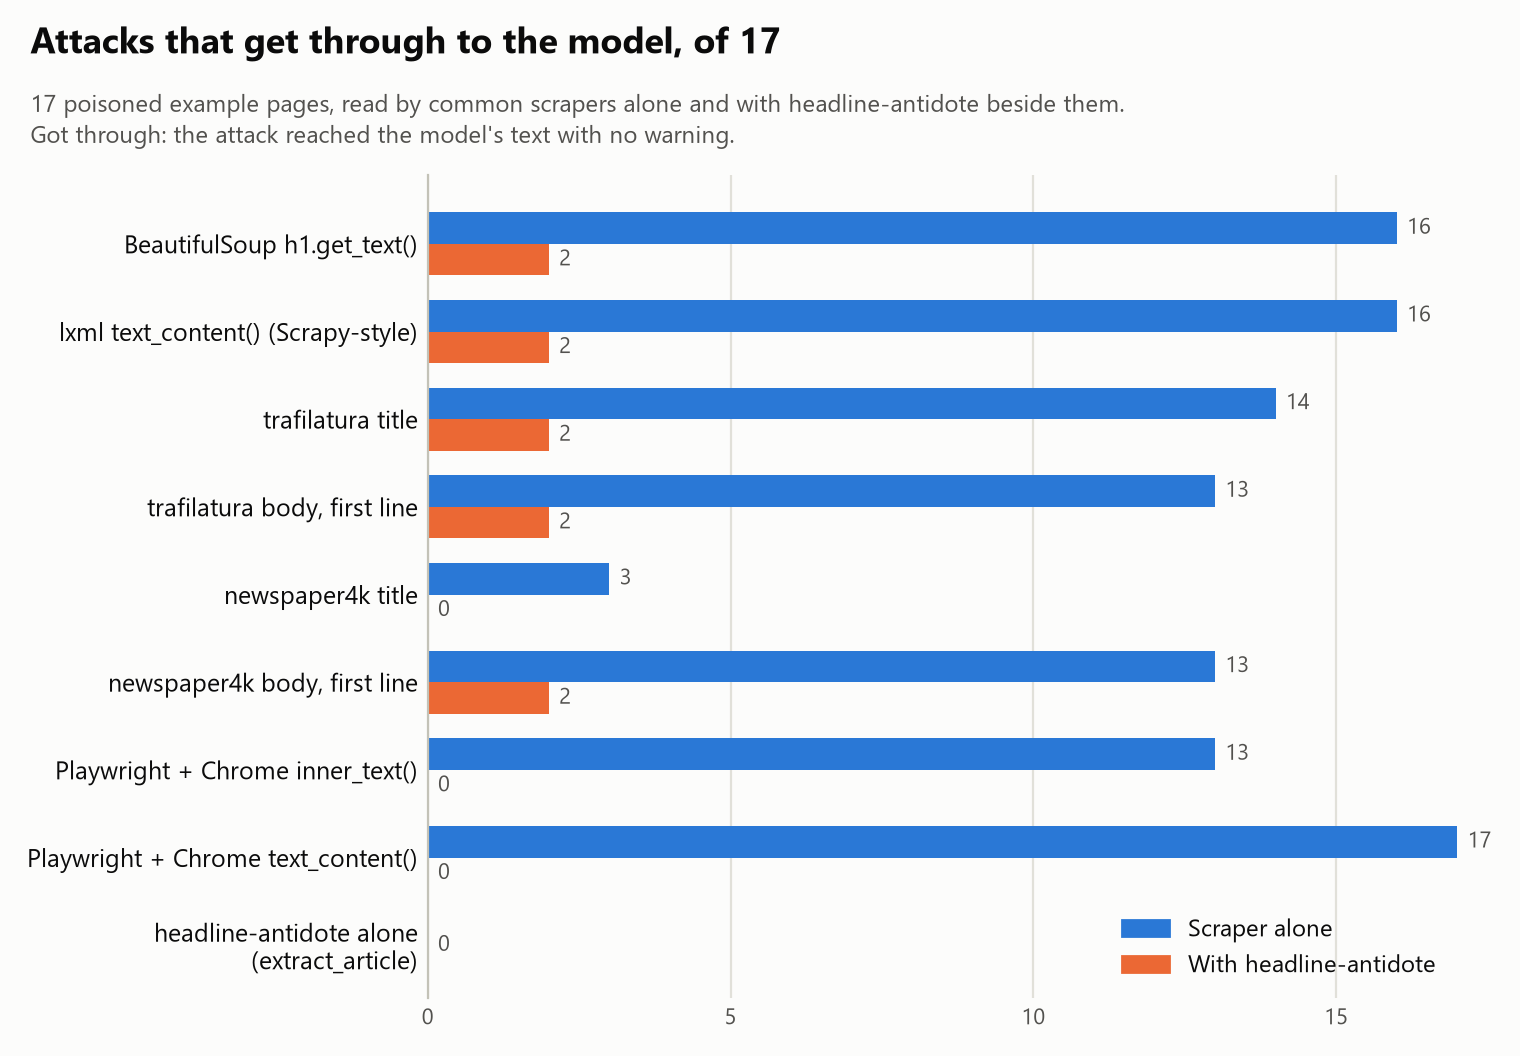
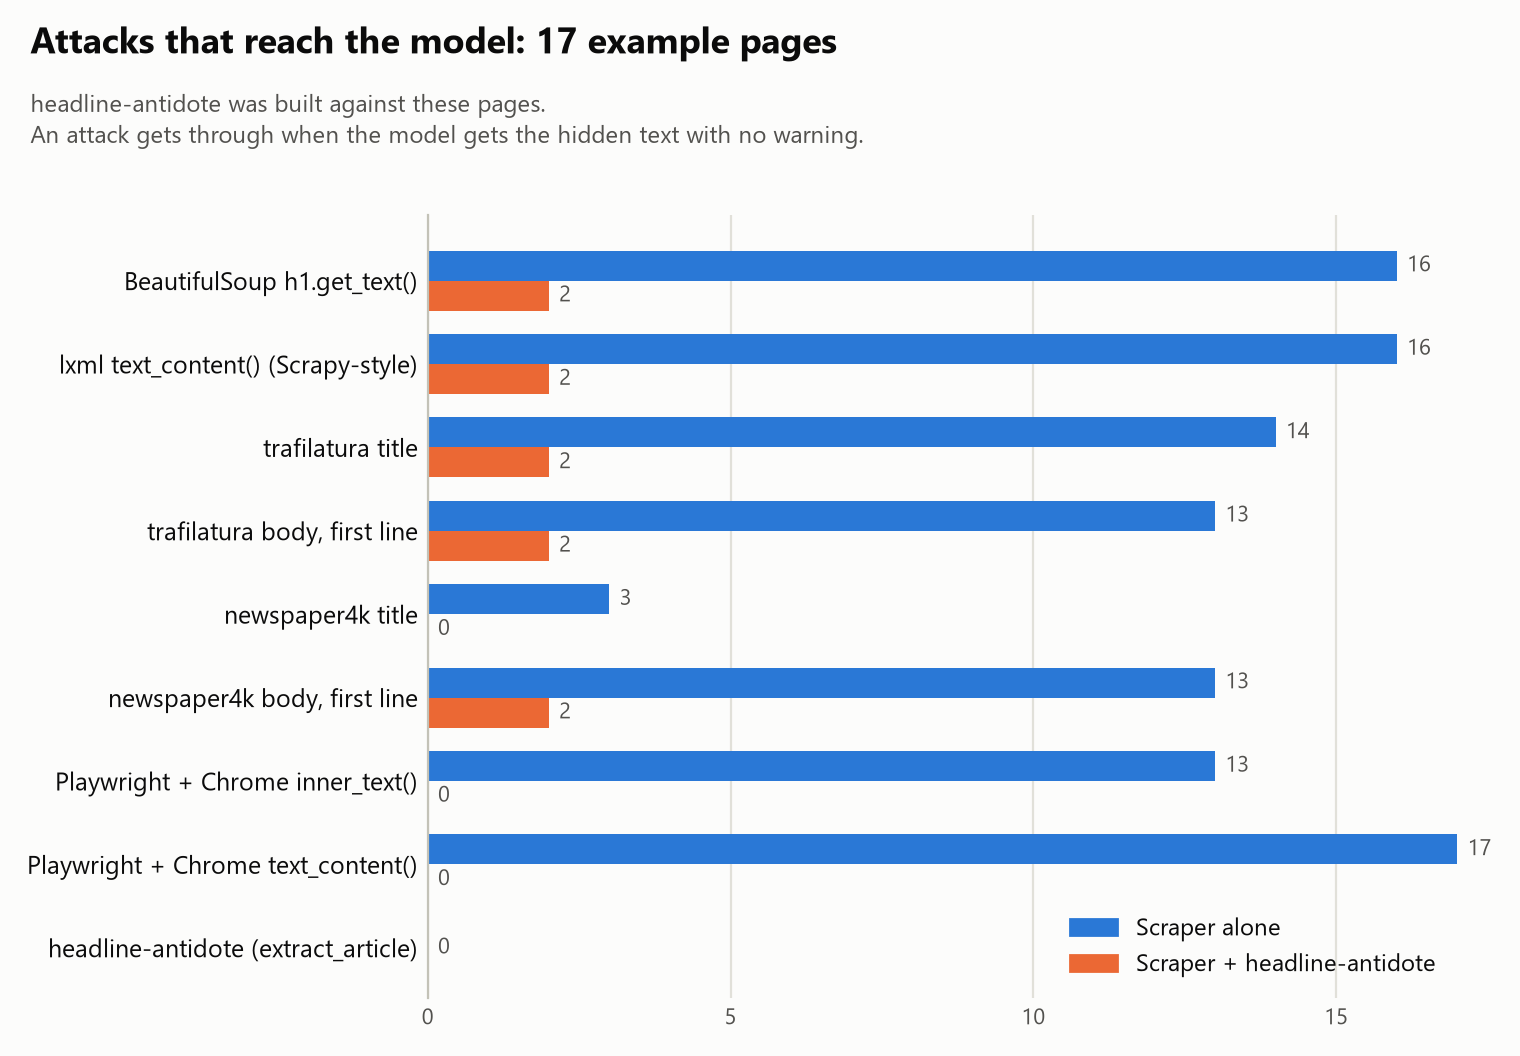
Plainer chart text and README: short titles, one-line subtitles, caveats in a footnote

diff --git a/benchmark/charts.py b/benchmark/charts.py
@@ -20,6 +20,8 @@ RESULTS = os.path.join(FOLDER, "results")
 CHARTS = os.path.join(FOLDER, "charts")
 ANTIDOTE = "headline-antidote"
 DATA_SETS = ["data", "data_2026-11-09"]
+PLAIN_ATTACK_NAMES = {"body: paragraph removed by JavaScript (no name)":
+                      "a script that removes a paragraph without naming it"}
 
 SURFACE = "#fcfcfb"
 INK = "#0b0b0b"
@@ -61,11 +63,19 @@ def label_bar(axes, value, position, text, limit):
     axes.text(value + limit * 0.01, position, text, va="center", ha="left", fontsize=8, color=INK_SECONDARY)
 
 
-def finish(figure, title, subtitle, file_name, top=0.86):
+def finish(figure, title, subtitle, file_name, footnote=""):
+    """Title and subtitle above the plot, an optional footnote below it, then the PNG."""
+    height = figure.get_figheight()
     figure.text(0.02, 0.975, title, ha="left", va="top", fontsize=13, fontweight="bold", color=INK)
-    figure.text(0.02, 0.975 - 0.32 / figure.get_figheight(), subtitle, ha="left", va="top", fontsize=8.5,
+    figure.text(0.02, 0.975 - 0.32 / height, subtitle, ha="left", va="top", fontsize=8.5,
                 color=INK_SECONDARY, linespacing=1.4)
-    figure.tight_layout(rect=(0, 0, 1, top))
+    bottom = 0
+    if footnote:
+        figure.text(0.02, 0.12 / height, footnote, ha="left", va="bottom", fontsize=8, color=INK_SECONDARY,
+                    linespacing=1.4)
+        bottom = (0.2 + 0.17 * (footnote.count("\n") + 1)) / height
+    top = 1 - (0.6 + 0.17 * (subtitle.count("\n") + 1)) / height
+    figure.tight_layout(rect=(0, bottom, 1, top))
     os.makedirs(CHARTS, exist_ok=True)
     figure.savefig(os.path.join(CHARTS, file_name), facecolor=SURFACE)
     plt.close(figure)
@@ -91,14 +101,15 @@ def example_pages_chart():
     antidote = summary[ANTIDOTE]["got_through"]
     axes.barh(positions[-1], antidote, height=bar_height, color=WITH_ANTIDOTE)
     label_bar(axes, antidote, positions[-1], str(antidote), total)
-    axes.set_yticks(positions, readers + ["headline-antidote alone\n(extract_article)"])
+    axes.set_yticks(positions, readers + ["headline-antidote (extract_article)"])
     axes.set_xlim(0, total)
     axes.set_xticks(range(0, total + 1, 5))
     legend = [Patch(color=ALONE), Patch(color=WITH_ANTIDOTE)]
-    axes.legend(legend, ["Scraper alone", "With headline-antidote"], loc="lower right", frameon=False, fontsize=8.5)
-    finish(figure, f"Attacks that get through to the model, of {total}",
-           f"{total} poisoned example pages, read by common scrapers alone and with headline-antidote beside them.\n"
-           "Got through: the attack reached the model's text with no warning.", "example_pages.png")
+    axes.legend(legend, ["Scraper alone", "Scraper + headline-antidote"], loc="lower right", frameon=False,
+                fontsize=8.5)
+    finish(figure, f"Attacks that reach the model: {total} example pages",
+           "headline-antidote was built against these pages.\n"
+           "An attack gets through when the model gets the hidden text with no warning.", "example_pages.png")
 
 
 def share_text(through, variants):
@@ -141,25 +152,19 @@ def real_pages_chart():
     figure, (headline_axes, body_axes) = plt.subplots(
         2, 1, figsize=(7.6, rows * 0.36 + 2.2), dpi=DPI,
         gridspec_kw={"height_ratios": [len(groups["headline"]) + 1, len(groups["body"]) + 1]})
-    left_out = []
-    for axes, where, heading in ((headline_axes, "headline", "Headline attacks, spliced into the <h1> only"),
-                                  (body_axes, "body", "Body attacks, spliced after the first paragraph")):
+    for axes, where, heading in ((headline_axes, "headline", "Headline attacks, in the <h1>"),
+                                  (body_axes, "body", "Body attacks, after the first paragraph")):
         style_axes(axes)
         readers = groups[where]
         names = list(readers) + [ANTIDOTE]
         positions = list(range(len(names)))[::-1]
         for name, position in zip(names, positions):
             if name == ANTIDOTE:
-                variants, through, errors = antidote[where]
+                variants, through, _ = antidote[where]
                 color = WITH_ANTIDOTE
-                if errors:
-                    left_out.append(f"{errors} failed browser checks")
             else:
-                variants, through, errors, ambiguous = readers[name]
+                variants, through, _, _ = readers[name]
                 color = ALONE
-                parts = [f"{count} {label}" for count, label in ((errors, "failed"), (ambiguous, "ambiguous")) if count]
-                if parts:
-                    left_out.append(f"{name}: {', '.join(parts)}")
             share = 100 * through / variants if variants else 0
             axes.barh(position, share, height=0.6, color=color)
             label_bar(axes, share, position, share_text(through, variants), 100)
@@ -167,24 +172,24 @@ def real_pages_chart():
         axes.set_xlim(0, 100)
         axes.set_xticks(range(0, 101, 25), [f"{tick}%" for tick in range(0, 101, 25)])
         axes.set_title(heading, loc="left", fontsize=10, fontweight="bold", color=INK, pad=6)
-    subtitle = (f"{len(sites)} news sites: headline attacks spliced into {used_pages} real pages, body attacks into "
-                f"the {body_pages} with a body found.\n"
-                "Blue: the scraper alone. Orange: headline-antidote, with the browser check on pages it flags.")
+    headline_axes.legend([Patch(color=ALONE), Patch(color=WITH_ANTIDOTE)], ["Scraper alone", ANTIDOTE],
+                         loc="lower right", frameon=False, fontsize=8.5)
+    subtitle = (f"{antidote['headline'][0] // used_pages} headline attacks on each of {used_pages} pages from "
+                f"{len(sites)} news sites, and {antidote['body'][0] // body_pages} body attacks on {body_pages} of them.")
+    footnotes = ["trafilatura and newspaper4k don't take the title from the <h1>, where these attacks are."]
     worst_attack, worst_count = max(antidote_by_attack.items(), key=lambda item: item[1])
     body_misses = antidote["body"][1]
     if body_misses and worst_count * 2 >= body_misses:
-        subtitle += (f"\n{worst_count} of headline-antidote's {body_misses} body misses are one attack: "
-                     f"{worst_attack.split(': ', 1)[1]}.")
+        plain_name = PLAIN_ATTACK_NAMES.get(worst_attack, worst_attack.split(": ", 1)[-1])
+        footnotes.append(f"{worst_count} of headline-antidote's {body_misses} body misses are one attack: {plain_name}.")
     rebuilding = load("rebuilding.json")
     rebuilt_unsure = sum(count for name, count in rebuilding["body_variants_sent_leaking"].items()
                          if "removed by JavaScript" not in name)
-    subtitle += (f"\nChrome's bars are a floor: {len(rebuilding['rebuilding_pages'])} of {rebuilding['pages_read']} "
-                 "pages rebuild their article with scripts and drop the spliced attack.\nThe same rebuild could hide "
-                 f"{rebuilt_unsure} more headline-antidote body misses (at worst {body_misses + rebuilt_unsure}).")
-    if left_out:
-        subtitle += "\nLeft out of the shares: " + "; ".join(left_out) + "."
-    finish(figure, "Attacks that get through to the model, on real pages", subtitle, "real_pages.png",
-           top=0.92 - 0.035 * (subtitle.count("\n") + 1))
+    footnotes.append(f"On {len(rebuilding['rebuilding_pages'])} of {rebuilding['pages_read']} pages, scripts rebuild "
+                     "the article and drop the attack, so Chrome scores better than it should.")
+    footnotes.append(f"The same rebuild could hide up to {rebuilt_unsure} more headline-antidote misses.")
+    finish(figure, "Attacks that reach the model: real news pages", subtitle, "real_pages.png",
+           footnote="\n".join(footnotes))
 
 
 def false_alarms_chart():
@@ -192,10 +197,10 @@ def false_alarms_chart():
     rows = []
     for data_name, label in zip(DATA_SETS, ("Nov 7", "Nov 9")):
         pages = results["pages"][data_name]
-        rows.append((f"Pages saved {label} ({pages['count']:,})", pages["end_to_end"], pages["count"]))
+        rows.append((f"Pages, {label} ({pages['count']:,})", pages["end_to_end"], pages["count"]))
     for data_name, label in zip(DATA_SETS, ("Nov 7", "Nov 9")):
         headlines = results["headlines"][data_name]
-        rows.append((f"Headlines saved {label} ({headlines['count']:,})", headlines["verdicts"], headlines["count"]))
+        rows.append((f"Headlines, {label} ({headlines['count']:,})", headlines["verdicts"], headlines["count"]))
     figure, axes = new_figure(len(rows), row_height=0.5)
     positions = list(range(len(rows)))[::-1]
     for (label, verdicts, count), position in zip(rows, positions):
@@ -208,7 +213,7 @@ def false_alarms_chart():
                 axes.text(start + share / 2, position, f"{verdicts[verdict]:,}", ha="center", va="center",
                           fontsize=8, color="white", fontweight="bold")
             elif verdicts[verdict]:
-                outside.append(f"{verdict} {verdicts[verdict]:,}")
+                outside.append(f"{verdicts[verdict]:,} {verdict}")
             start += share
         if outside:
             axes.text(101, position, ", ".join(outside), ha="left", va="center", fontsize=8, color=INK_SECONDARY)
@@ -218,9 +223,10 @@ def false_alarms_chart():
     legend = [Patch(color=color) for color in VERDICT_COLORS.values()]
     axes.legend(legend, list(VERDICT_COLORS), loc="upper center", bbox_to_anchor=(0.5, -0.12), ncol=3,
                 frameon=False, fontsize=8.5)
-    finish(figure, "Verdicts on clean news, no attacks",
-           "Saved real pages read end to end (stylesheets, feed title, browser check when asked), and feed headlines.\n"
-           "Anything but pass on these is a false alarm or a real finding.", "false_alarms.png", top=0.76)
+    page_count = sum(results["pages"][data_name]["count"] for data_name in DATA_SETS)
+    headline_count = sum(results["headlines"][data_name]["count"] for data_name in DATA_SETS)
+    finish(figure, "Verdicts on clean news",
+           f"{page_count} saved news pages and {headline_count:,} feed headlines, with no attacks.", "false_alarms.png")
 
 
 CHARTS_BY_NAME = {"example_pages": example_pages_chart, "real_pages": real_pages_chart,

diff --git a/benchmark/make_gallery.py b/benchmark/make_gallery.py
@@ -105,7 +105,7 @@ def main():
              "the real-page chart tests the same kinds of attack on real news pages.", "",
              "*Gets through*: the attack reaches the model's text with no warning. *Reached, flagged*: it reaches the "
              "text, and the verdict is `review` or `quarantine`. *Stopped*: it never reaches the text.", "",
-             f"![Attacks that get through to the model]({CHART_URL.format('example_pages')})", "",
+             f"![Attacks that reach the model: 17 example pages]({CHART_URL.format('example_pages')})", "",
              f"The same attacks spliced into real news pages: [chart]({CHART_URL.format('real_pages')}). "
              f"Verdicts on clean news: [chart]({CHART_URL.format('false_alarms')}).", "",
              f"Generated by `make_gallery.py` from `results/example_pages.json` ({results['generated']}, "

diff --git a/README.md b/README.md
@@ -10,25 +10,25 @@ Built against the attacks in Rizvani, Apruzzese and Laskov, *Adversarial News an
 ## What it does
 
 - Finds look-alike letters, invisible Unicode characters and bidi tricks, and links watched company names to their tickers. Real Russian, Greek, Arabic, CJK and other text is left alone.
-- Reads HTML and CSS the way Chrome does and removes text a reader can't see: `display:none`, zero size or opacity, off-screen, clipped, covered, the same colour as the background, and more.
+- Reads HTML and CSS the way Chrome does and removes text a reader can't see: `display:none`, zero size or opacity, off-screen, clipped, covered, or the same colour as the background.
 - Picks the real headline (the `<h1>` that matches the page's titles) and the visible article body.
 - Compares the headline with the feed and metadata titles, which page CSS and scripts can't change.
-- For pages a static read can't settle (about 15% of real pages), renders them in headless Chrome.
+- When HTML and CSS aren't enough to decide (about 15% of real pages), renders the page in headless Chrome.
 - Gives each result a verdict (`pass`, `review`, `quarantine`) and flags with evidence, as objects or JSON.
 
-It doesn't fetch pages, and it doesn't make trading decisions.
+It doesn't fetch pages.
 
 ## Results
 
-![Attacks that get through to the model, of 17](https://raw.githubusercontent.com/NoCritics/headline-antidote/master/benchmark/charts/example_pages.png)
+An attack gets through when the model gets the hidden text and headline-antidote says `pass`.
 
-17 poisoned example pages, the ones headline-antidote was built against, read by common scrapers. Blue: attacks that reach the model's text. Orange: the same, counting only pages headline-antidote passes.
+![Attacks that reach the model: 17 example pages](https://raw.githubusercontent.com/NoCritics/headline-antidote/master/benchmark/charts/example_pages.png)
 
-![Attacks that get through to the model, on real pages](https://raw.githubusercontent.com/NoCritics/headline-antidote/master/benchmark/charts/real_pages.png)
+These are the 17 pages headline-antidote was built against. The real pages below are the harder test.
 
-The same kinds of attack spliced into real pages from 43 news sites: 4 headline attacks into each of 234 pages, and 7 body attacks into the 222 where the test found the article body. 150 of headline-antidote's 155 body misses are one attack: a script that removes a paragraph without naming it.
+![Attacks that reach the model: real news pages](https://raw.githubusercontent.com/NoCritics/headline-antidote/master/benchmark/charts/real_pages.png)
 
-Each attack page, and what every scraper made of it: [the gallery](https://github.com/NoCritics/headline-antidote/blob/master/benchmark/README.md).
+The [gallery](https://github.com/NoCritics/headline-antidote/blob/master/benchmark/README.md) shows each example page and what each scraper got from it.
 
 ## Install
 
@@ -63,11 +63,11 @@ result.clean_text   # "Tesla shares surge"
 result.tickers      # ["TSLA"]
 ```
 
-Give the model only `headline` and `body`, or `clean_text`. A suggested policy:
+Give the model only `headline` and `body`, or `clean_text`. What to do with each verdict:
 
-- `quarantine`: drop it and alert;
-- `review`: lower its weight, or wait for a second source;
 - `pass`: use it.
+- `review`: lower its weight, or wait for a second source.
+- `quarantine`: drop it and alert.
 
 ## JSON report
 
@@ -83,13 +83,13 @@ print(json.dumps(article.to_dict(), indent=2, ensure_ascii=False))
             "evidence": {"cause": "tiny_font", "css": "font-size:0"}, "start": null, "end": null}]}
 ```
 
-That is the report for `<h1>Tesla shares <span style="font-size:0">plunge</span> surge</h1>`. The JSON Schema ships in the package as `report_schema.json`. Every field is described in [docs/report_format.md](docs/report_format.md).
+This is the report for `<h1>Tesla shares <span style="font-size:0">plunge</span> surge</h1>`. The schema ships as `report_schema.json`, and [docs/report_format.md](docs/report_format.md) describes every field.
 
-Report strings come from the page, which an attacker may control. Never pass the report itself to an LLM.
+Don't give the report itself to an LLM. Its strings come from the page, and an attacker may control the page.
 
 ## More
 
-[docs/guide.md](docs/guide.md) covers where to call it in a scraper, external stylesheets, the browser check, every flag, test results and known limits.
+The [guide](docs/guide.md) covers scraper setup, external stylesheets, the browser check, every flag, test results and known limits.
 
 ## Tests
 
@@ -102,4 +102,4 @@ Without the extras, the Chrome and schema tests are skipped.
 
 ## Licence
 
-MIT, see [LICENSE](LICENSE).
+MIT. See [LICENSE](LICENSE).

diff --git a/docs/guide.md b/docs/guide.md
@@ -105,11 +105,11 @@ Invisible characters, compatibility forms and combining marks inside a watched n
 
 ## Results
 
-![Verdicts on clean news, no attacks](https://raw.githubusercontent.com/NoCritics/headline-antidote/master/benchmark/charts/false_alarms.png)
+![Verdicts on clean news](https://raw.githubusercontent.com/NoCritics/headline-antidote/master/benchmark/charts/false_alarms.png)
 
 - **Feed headlines:** 3,242 live headlines (907 saved Nov 7, 2,335 saved Nov 9) gave 3 quarantines, each a real mixed-script word: Kommersant's "Gаsuniе" (Cyrillic а and е), "ХХI" (Latin I) and "cборная" (Latin c).
 - **Article pages:** 284 saved pages, read with their stylesheets, the feed title and the browser check. 279 passed and 5 got `review`: Hindu BusinessLine pages whose "read more" collapse hides most of the article. 38 went to the browser check, and none failed. On the 228 pages from 47 sites in 9 languages saved Nov 9, the headline was right on 220.
-- **Spliced attacks:** 4 headline attacks were spliced into each of 234 usable pages from 43 sites, and 7 body attacks into the 222 where the test found the article body ([Nov 7](../real_world_test/injection_report.md), [Nov 9](../real_world_test/data_2026-11-09/injection_report.md)), and each variant was also read by BeautifulSoup, lxml, trafilatura, newspaper4k and Chrome. With the browser check, 1 of 936 headline attacks got through (a `font-size:0` class from an external stylesheet, on one Economic Times page) and 155 of 1,554 body attacks: 150 are body text removed by a script that never names it, and 5 are white text on Deutsche Welle pages whose main stylesheet the test couldn't fetch. 50 of 232 pages rebuild their article with scripts and drop the spliced attack in Chrome ([rebuilding.json](../benchmark/results/rebuilding.json)), so Chrome's numbers are a floor, and the same rebuild could hide up to 12 more headline-antidote body misses (white text sent to the browser check), 167 at worst. Results per reader: [benchmark/results/](../benchmark/results/); each example attack: [benchmark/README.md](../benchmark/README.md).
+- **Spliced attacks:** 4 headline attacks were spliced into each of 234 usable pages from 43 sites, and 7 body attacks into the 222 where the test found the article body ([Nov 7](../real_world_test/injection_report.md), [Nov 9](../real_world_test/data_2026-11-09/injection_report.md)), and each variant was also read by BeautifulSoup, lxml, trafilatura, newspaper4k and Chrome. With the browser check, 1 of 936 headline attacks got through (a `font-size:0` class from an external stylesheet, on one Economic Times page) and 155 of 1,554 body attacks: 150 are body text removed by a script that never names it, and 5 are white text on Deutsche Welle pages whose main stylesheet the test couldn't fetch. 50 of 232 pages rebuild their article with scripts and drop the spliced attack in Chrome ([rebuilding.json](../benchmark/results/rebuilding.json)), so Chrome's numbers are a floor, and the same rebuild could hide up to 12 more headline-antidote body misses (white text sent to the browser check), 167 at worst. 6 headline and 13 body reads by Chrome failed and are not counted. Results per reader: [benchmark/results/](../benchmark/results/); each example attack: [benchmark/README.md](../benchmark/README.md).
 - **CSS validity:** checked against Chrome on the 21,965 distinct values from the test pages, and about 840,000 generated ones.
 - **Speed:** a headline takes 65 to 80 µs. `extract_article` takes 276 ms (median) and 735 ms (p95) when the site's CSS is cached, and 332 ms and 1.6 s on a mixed stream of all 228 pages.
 

diff --git a/benchmark/README.md b/benchmark/README.md
@@ -4,7 +4,7 @@ The 17 attack pages and 5 clean pages behind the first chart of the [README](../
 
 *Gets through*: the attack reaches the model's text with no warning. *Reached, flagged*: it reaches the text, and the verdict is `review` or `quarantine`. *Stopped*: it never reaches the text.
 
-![Attacks that get through to the model](https://raw.githubusercontent.com/NoCritics/headline-antidote/master/benchmark/charts/example_pages.png)
+![Attacks that reach the model: 17 example pages](https://raw.githubusercontent.com/NoCritics/headline-antidote/master/benchmark/charts/example_pages.png)
 
 The same attacks spliced into real news pages: [chart](https://raw.githubusercontent.com/NoCritics/headline-antidote/master/benchmark/charts/real_pages.png). Verdicts on clean news: [chart](https://raw.githubusercontent.com/NoCritics/headline-antidote/master/benchmark/charts/false_alarms.png).
 
